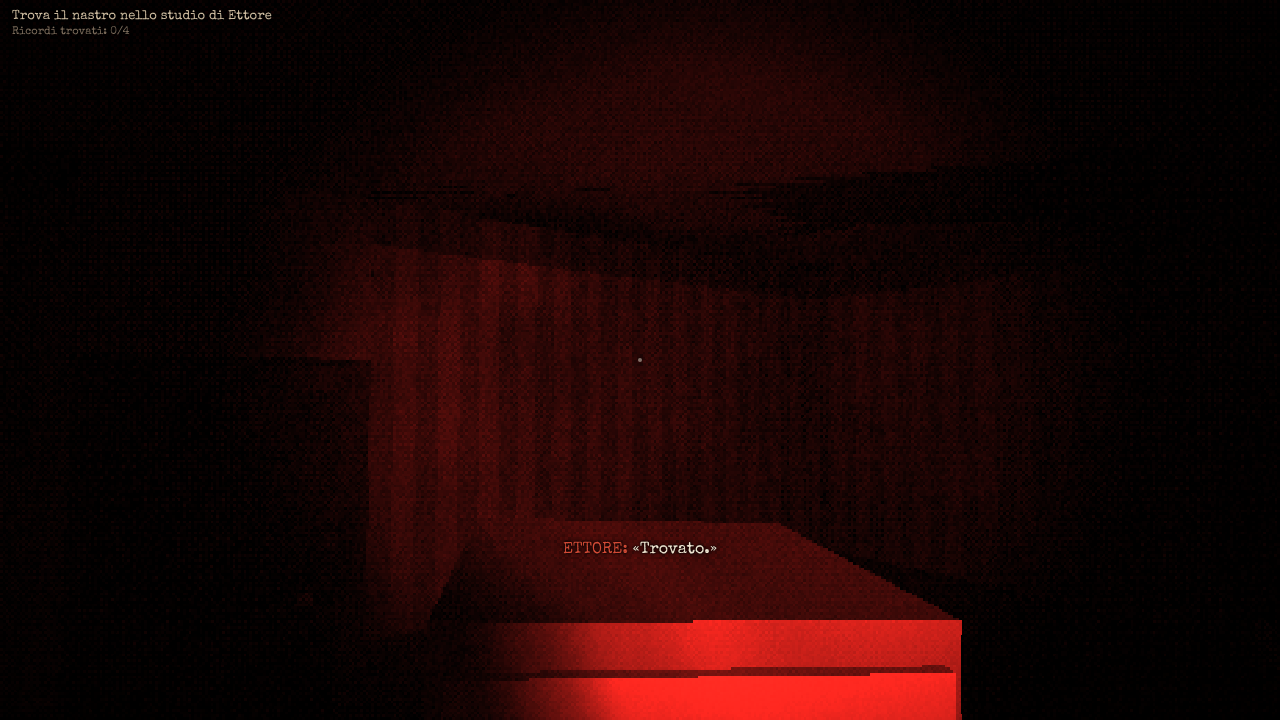
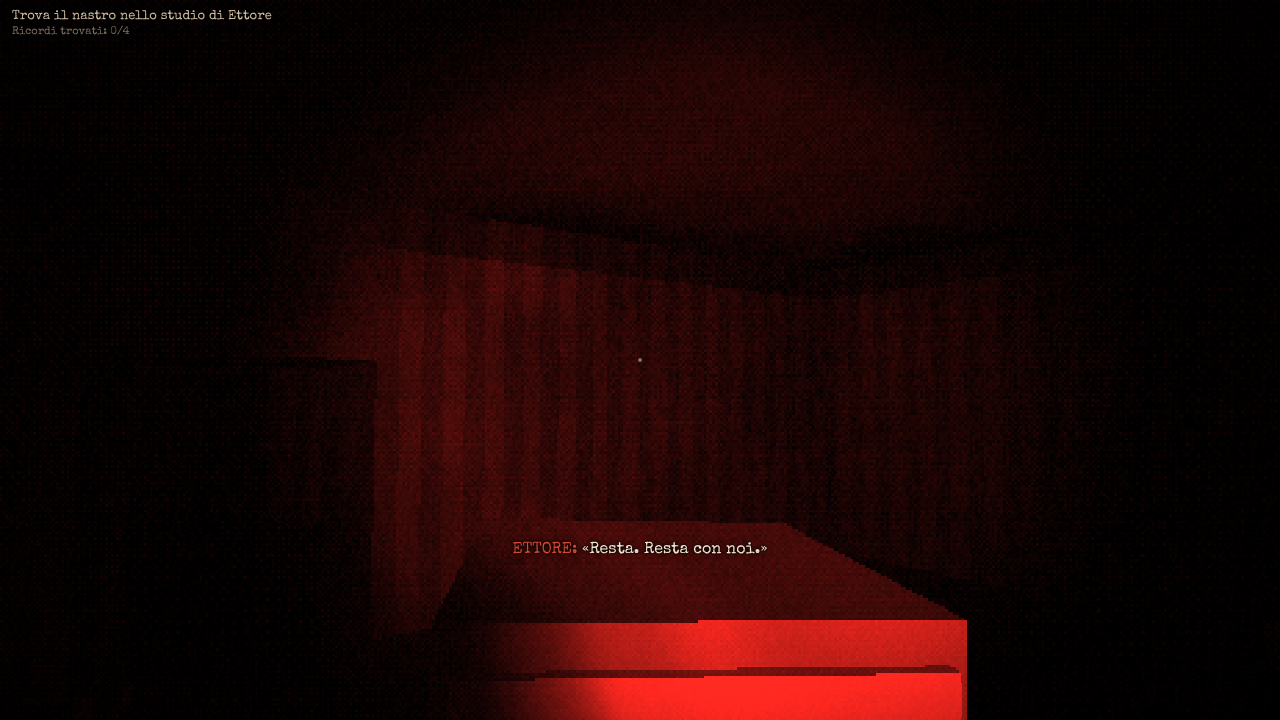
Visione al buio vera: le ombre non spariscono più nella posterizzazione, nascondigli leggibili (#5)
Claude-Session: https://claude.ai/code/session_013yup1RZXDokA6C7Hytxfdg

diff --git a/index.html b/index.html
@@ -421,7 +421,7 @@ void main(){
 const PVS=`attribute vec2 aP;varying vec2 vUv;void main(){vUv=aP*0.5+0.5;gl_Position=vec4(aP,0.0,1.0);}`;
 const PFS=`
 precision mediump float;varying vec2 vUv;
-uniform sampler2D uTex;uniform vec2 uLow;uniform float uT,uRed,uFade,uStereo,uNoise,uPanic;
+uniform sampler2D uTex;uniform vec2 uLow;uniform float uT,uRed,uFade,uStereo,uNoise,uPanic,uAdapt;
 float b2(vec2 a){a=floor(a);return fract(dot(a,vec2(0.5,a.y*0.75)));}
 float b4(vec2 a){return b2(0.5*a)*0.25+b2(a);}
 void main(){
@@ -430,6 +430,8 @@ void main(){
    if(e.x<0.0||e.x>1.0||e.y<0.0||e.y>1.0){gl_FragColor=vec4(0.0,0.0,0.0,1.0);return;}uv=vec2(side+e.x*0.5,e.y);ev=e;}
  if(uPanic>0.01){uv.x+=sin(uv.y*40.0+uT*30.0)*0.002*uPanic;}
  vec3 c=texture2D(uTex,uv).rgb;
+ // occhi abituati al buio: alza le ombre prima della posterizzazione e vira al blu-grigio
+ if(uAdapt>0.01){c=pow(max(c,0.0),vec3(1.0/(1.0+uAdapt*0.85)));c=mix(c,vec3(dot(c,vec3(0.3,0.5,0.2)))*vec3(0.82,0.92,1.12),uAdapt*0.45);}
  vec2 lp=floor(uv*uLow);
  c+=(b4(lp)-0.5)/22.0;
  c=floor(c*22.0+0.5)/22.0;
@@ -1124,7 +1126,7 @@ function startClimb(w){
 }
 function hide(h){
   if(E.state==='check'&&E.checkSpot===h&&Math.hypot(E.x-h.ex,E.z-h.ez)<1.2)return;
-  P.hidden=h;P.hideYaw=h.yaw;P.yaw=h.yaw;P.pitch=0;P.breath=1;P.crouch=false;
+  P.hidden=h;G.adapt=Math.max(G.adapt||0,0.85);P.hideYaw=h.yaw;P.yaw=h.yaw;P.pitch=0;P.breath=1;P.crouch=false;
   mem.hides[h.id]=(mem.hides[h.id]||0)+1;saveMem();netInc('hides/'+h.id);
   const ov=$('#hideov');ov.className='on '+h.kind;sfx('creak',h.px,h.pz,0.5);
   if(E.state==='chase'&&E.lostT<1.2&&Math.hypot(E.x-P.x,E.z-P.z)<11)E.knownSpot=h.id;
@@ -1512,7 +1514,7 @@ function renderScene(proj,view,camPos,flPos,flDir){
   const inside=isInsideCell(camPos[0],camPos[2]);
   // occhi abituati al buio: a torcia spenta, in pochi secondi la casa riemerge in grigio-blu (luna dalle finestre)
   const ad=G.adapt||0;
-  gl.uniform3fv(u.uAmb,inside?[lerp(.03,.115,ad),lerp(.028,.12,ad),lerp(.036,.16,ad)]:[lerp(.085,.13,ad),lerp(.095,.145,ad),lerp(.14,.2,ad)]);
+  const hb=P.hidden?1.35:1;gl.uniform3fv(u.uAmb,inside?[lerp(.03,.085,ad)*hb,lerp(.028,.09,ad)*hb,lerp(.036,.12,ad)*hb]:[lerp(.085,.13,ad),lerp(.095,.145,ad),lerp(.14,.2,ad)]);
   gl.uniform3fv(u.uFogC,inside?[0,0,0]:[.035,.042,.075]);gl.uniform1f(u.uFog,inside?lerp(0.13,0.07,ad):0.06);
   gl.uniform1f(u.uT,G.time);
   const lp=[],lc=[];for(const l of LIGHTS){let k=1;if(l.k==='tv')k=G.tvFlick;if(l.k==='bulb')k=G.bulb;if(l.k==='trap')k=0.7+0.3*Math.sin(G.time*2.1)+(G.frenzyFx>0?1.5:0);if(l.k==='radio')k=0.7+(G.frenzyFx>0?2:0);if(l.k==='elamp'){const e=E.lamp||[E.x,1,E.z];l.x=e[0];l.y=e[1];l.z=e[2];k=(E.state==='tv'?0.25:0.8)*(0.82+0.18*Math.sin(G.time*17)*Math.sin(G.time*6.1));}
@@ -1543,7 +1545,7 @@ function render(){
   gl.enableVertexAttribArray(PP.a.aP);gl.vertexAttribPointer(PP.a.aP,2,gl.FLOAT,false,0,0);
   gl.activeTexture(gl.TEXTURE0);gl.bindTexture(gl.TEXTURE_2D,FTEX);gl.uniform1i(PP.u.uTex,0);
   gl.uniform2f(PP.u.uLow,RW,RH);gl.uniform1f(PP.u.uT,G.time);gl.uniform1f(PP.u.uRed,clamp(G.red,0,1));gl.uniform1f(PP.u.uFade,clamp(G.fade,0,1));
-  gl.uniform1f(PP.u.uStereo,G.stereo?1:0);gl.uniform1f(PP.u.uNoise,0.05+P.panic*0.06+(G.frenzyFx>0?0.15:0));gl.uniform1f(PP.u.uPanic,P.panic);
+  gl.uniform1f(PP.u.uStereo,G.stereo?1:0);gl.uniform1f(PP.u.uNoise,0.05+P.panic*0.06+(G.frenzyFx>0?0.15:0));gl.uniform1f(PP.u.uPanic,P.panic);gl.uniform1f(PP.u.uAdapt,G.state==='play'||G.state==='caught'?(G.adapt||0):0);
   gl.drawArrays(gl.TRIANGLES,0,3);
   gl.disableVertexAttribArray(PP.a.aP);
 }
@@ -1554,7 +1556,7 @@ function render(){
 let last=performance.now(),tickT=0,heartT=0;
 function update(dt){
   G.time+=dt;
-  G.adapt=lerp(G.adapt||0,(P.torch&&!P.hidden)?0:1,Math.min(1,dt*((P.torch&&!P.hidden)?2.5:0.6)));
+  G.adapt=lerp(G.adapt||0,(P.torch&&!P.hidden)?0:1,Math.min(1,dt*((P.torch&&!P.hidden)?2.5:1.2)));
   if(G.state==='play'&&!G.paused){
     G.runT+=dt;
     updatePlayer(dt);
